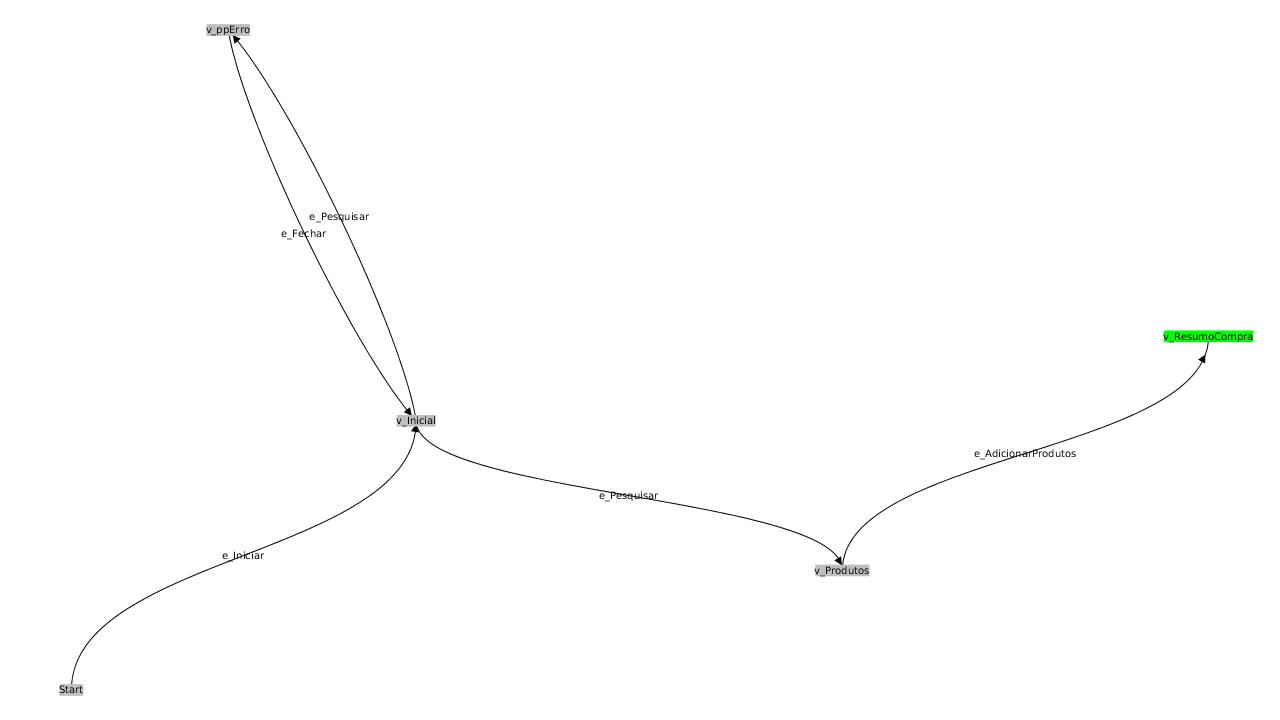
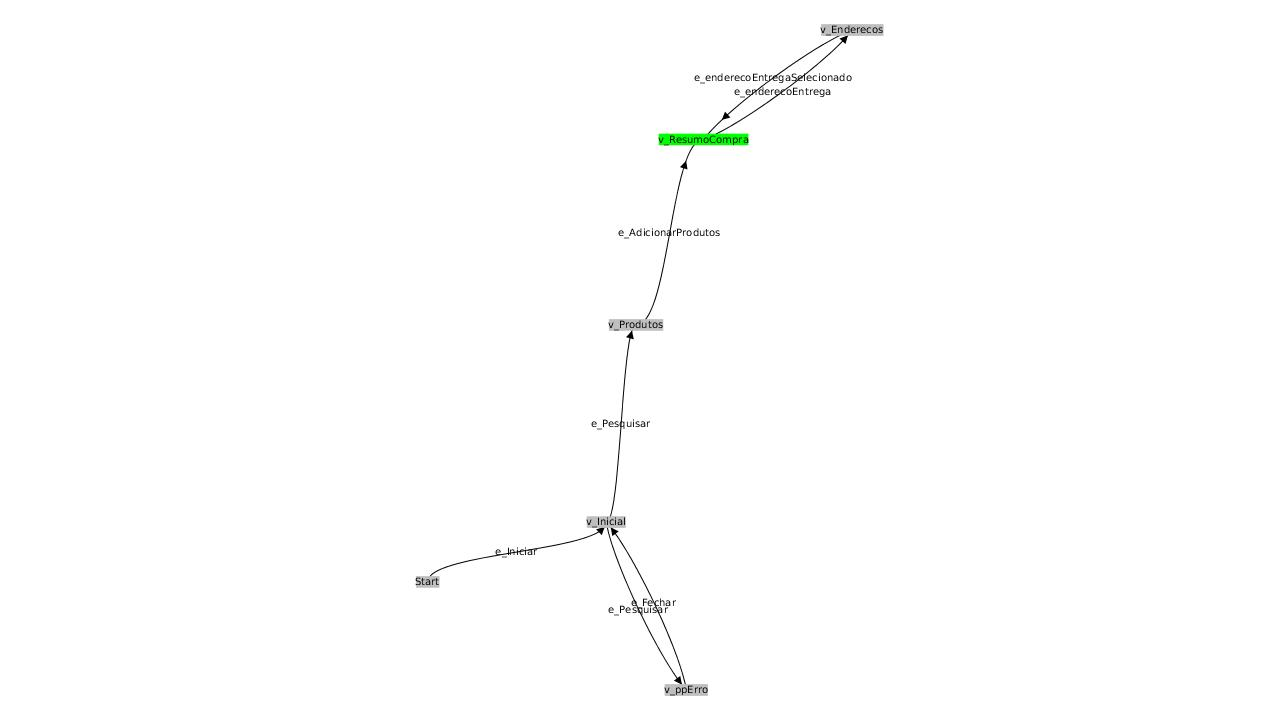
Graphml com versão da Paty, fluxo de telas indo até o vertice de resumo de compra (fica num loop no teste)

diff --git a/src/main/java/br/com/unicamp/inf321/models/bookstore/BookstoreModel.java b/src/main/java/br/com/unicamp/inf321/models/bookstore/BookstoreModel.java
@@ -56,9 +56,15 @@ public class BookstoreModel extends ExecutionContext implements Grupo061{
 	@Override
 	public void e_AdicionarProdutos() {
 		// TODO Auto-generated method stub
-		TouchAction clicarComprar = new TouchAction(driver);
-		// clique no botão continuar comprando
-		clicarComprar.tap(1250,900).perform();		
+		TouchAction clicarAddProduto = new TouchAction(driver);
+		//escolher o produto na home (ir para tela do produto)
+		wait.until(ExpectedConditions.visibilityOfElementLocated(By.className("android.widget.Image")));
+		clicarAddProduto.tap(250,1000).perform();
+		
+		wait.until(ExpectedConditions.visibilityOfElementLocated(By.className("android.widget.Image")));
+		//clicar em comprar na tela do protudo (vai para o carrinho)
+		clicarAddProduto.tap(1250,900).perform();
+		wait.until(ExpectedConditions.visibilityOfElementLocated(By.className("android.widget.Image")));
 	}
 
 	@Override
@@ -71,17 +77,21 @@ public class BookstoreModel extends ExecutionContext implements Grupo061{
 	public void e_enderecoEntregaSelecionado() {
 		// TODO Auto-generated method stub
 		// TODO Auto-generated method stub
-		TouchAction clicarInformarCep   = new TouchAction(driver);
-		TouchAction clicarCalcularFrete = new TouchAction(driver);
-		TouchAction clicarFinalizar		= new TouchAction(driver);
-		// informar CEP
-		clicarInformarCep.tap(404, 870).perform();
-		// clique no botão calcular frete
-		clicarCalcularFrete.tap(768,868).perform();
-		
-		//Finalizar Compra
-		clicarFinalizar.tap(1620,555).perform();
-		
+		if(getAttribute("endereco_entrega").toString() == "true"){
+			TouchAction clicarInformarCep   = new TouchAction(driver);
+			TouchAction clicarCalcularFrete = new TouchAction(driver);
+			TouchAction clicarFinalizar		= new TouchAction(driver);
+			// informar CEP
+			clicarInformarCep.tap(404, 870).perform();
+			wait.until(ExpectedConditions.visibilityOfElementLocated(By.className("android.widget.Image")));
+			// clique no botão calcular frete
+			clicarCalcularFrete.tap(768,868).perform();
+			wait.until(ExpectedConditions.visibilityOfElementLocated(By.className("android.widget.Image")));		
+			//Finalizar Compra (vai para tela de fazer login)
+			/*
+			clicarFinalizar.tap(1620,555).perform();
+			wait.until(ExpectedConditions.visibilityOfElementLocated(By.className("android.widget.Image")));*/
+		}
 	}
 	
 
@@ -142,10 +152,10 @@ public class BookstoreModel extends ExecutionContext implements Grupo061{
 	@Override
 	public void v_Login() {
 		// TODO Auto-generated method stub
-		TouchAction clicarLogin = new TouchAction(driver);
+		/*TouchAction clicarLogin = new TouchAction(driver);
 		By telaLogin = By.className("android.widget.Image");
 		// clique no botão continuar comprando
-		clicarLogin.tap(189, 761).perform();
+		clicarLogin.tap(189, 761).perform();*/
 	}
 
 	@Override
@@ -212,19 +222,16 @@ public class BookstoreModel extends ExecutionContext implements Grupo061{
 		// TODO Auto-generated method stub
 		TouchAction clicarPesquisa = new TouchAction(driver);
 
-		//By telaApp = By.className("android.widget.Image");
-		//wait.until(ExpectedConditions.visibilityOfElementLocated(telaApp));
+		By telaApp = By.className("android.widget.Image");
+		wait.until(ExpectedConditions.visibilityOfElementLocated(telaApp));
 		
 		//Tem q clicar 2x para fazer uma busca valida	
 		clicarPesquisa.tap(450,350).perform();
-		//wait.until(ExpectedConditions.visibilityOfElementLocated(telaApp));
+		wait.until(ExpectedConditions.visibilityOfElementLocated(telaApp));
 		clicarPesquisa.tap(450,350).perform();
-		//wait.until(ExpectedConditions.visibilityOfElementLocated(telaApp));
+		wait.until(ExpectedConditions.visibilityOfElementLocated(telaApp));
 		//clique no botão pesquisar
 		clicarPesquisa.tap(1700,350).perform();
-		
-		//escolher o produto propriamente dito
-		clicarPesquisa.tap(250,1000).perform();
 	}
 
 	@Override

diff --git a/src/test/java/br/com/unicamp/inf321/BookstoreAppiumTest.java b/src/test/java/br/com/unicamp/inf321/BookstoreAppiumTest.java
@@ -112,8 +112,8 @@ public class BookstoreAppiumTest {
 		cp.addPathGenerator(new AStarPath(new ReachedEdge("e_Iniciar")));
 		cp.addPathGenerator(new AStarPath(new ReachedEdge("e_Pesquisar")));
 		cp.addPathGenerator(new AStarPath(new ReachedEdge("e_AdicionarProdutos")));
-		//cp.addPathGenerator(new AStarPath(new ReachedEdge("e_enderecoEntrega")));
-		cp.addPathGenerator(new AStarPath(new ReachedVertex("v_ResumoCompra")));
+		cp.addPathGenerator(new AStarPath(new ReachedEdge("e_enderecoEntregaSelecionado")));
+		cp.addPathGenerator(new AStarPath(new ReachedVertex("v_Enderecos")));
 		//cp.addPathGenerator(new AStarPath(new ReachedVertex("v_EditNoteView")));
 		
 		Result result = new GraphWalkerTestBuilder()
